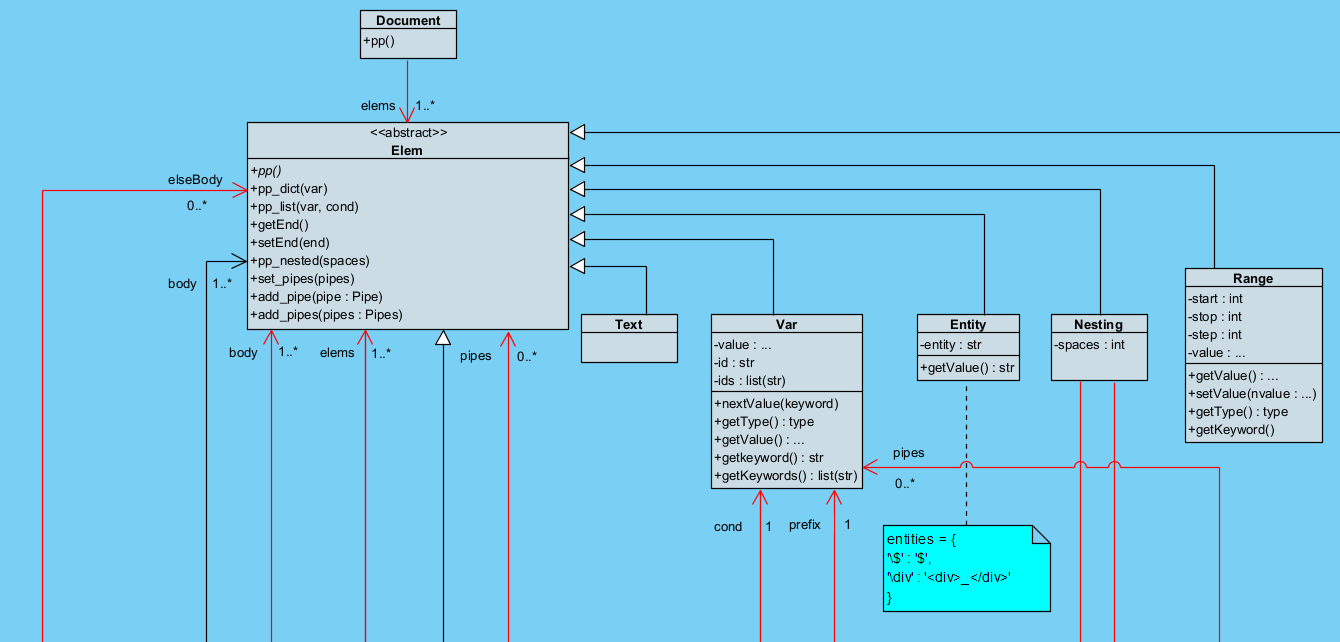
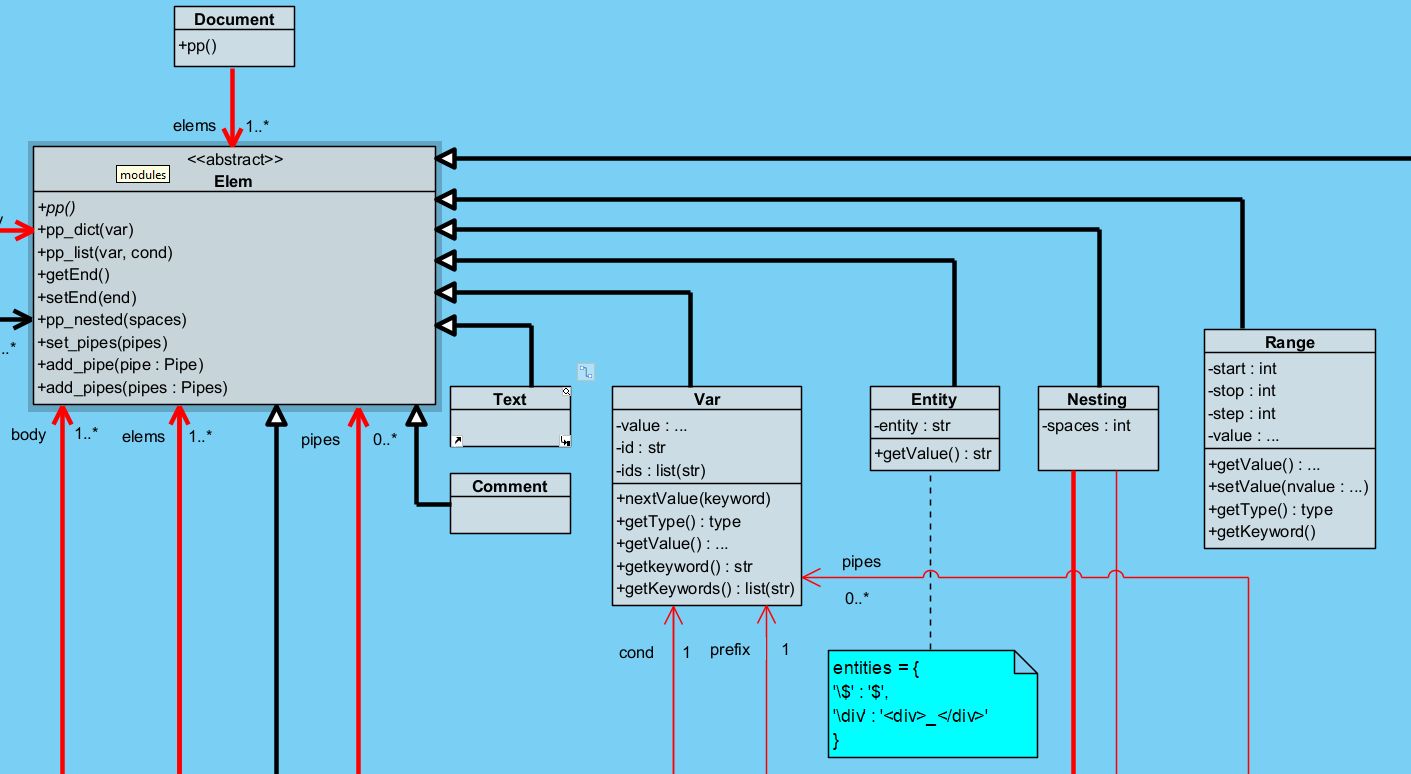
relatorio-comments

Changed region(s): [[0.0, 0.0, 1.0, 1.0], [0.2448, 0.0, 0.3672, 0.0935]]

diff --git a/docs/hdoc/comments.tex b/docs/hdoc/comments.tex
@@ -1,0 +1,39 @@
+\documentclass[../relatorio.tex]{subfiles}
+    Um comentário é tudo que está entre '<--' e '-->'. Por defeito
+    os comentários não são escritos no ficheiro gerado, a menos que o
+    utilizador o pretenda.
+
+    \begin{minted}{bash}
+        <-- Isto é um comentário
+        com 2 linhas-->
+
+        Texto <--outro comentário-->
+    \end{minted}
+
+    Como dito anteriormente, os comentários por defeito são excluídos
+    do ficheiro gerado. Porém caso o utilizador os pretenda imprimir
+    pode-o fazer, inclusive indicando opcionalmente qual os caracteres
+    utilizados para abrir e terminar. 
+    
+    Isto é, utilizando o exemplo acima, caso o modo de abertura e de 
+    encerrar fossem, respetivamente, '<!-' e '->', o texto gerado seria:
+
+    \begin{minted}{bash}
+        <!- Isto é um comentário
+        com 2 linhas->
+
+        Texto <!-outro comentário->
+    \end{minted}
+
+
+    \subsection*{Estratégia utilizada}
+
+    A classe \textit{Comment} é inicilizada com o conteúdo do comentário,
+    a flag que indica se é para escrever o comentário e opcionalmente o 
+    o modo de abertura e de encerramento do comentário.
+
+    A função responsável por imprimir o texto gerado, apenas escreve o
+    comentário no caso da flag ser \textit{True}, concatenando com o prefixo
+    e sufixo recebido.
+
+\end{document}
